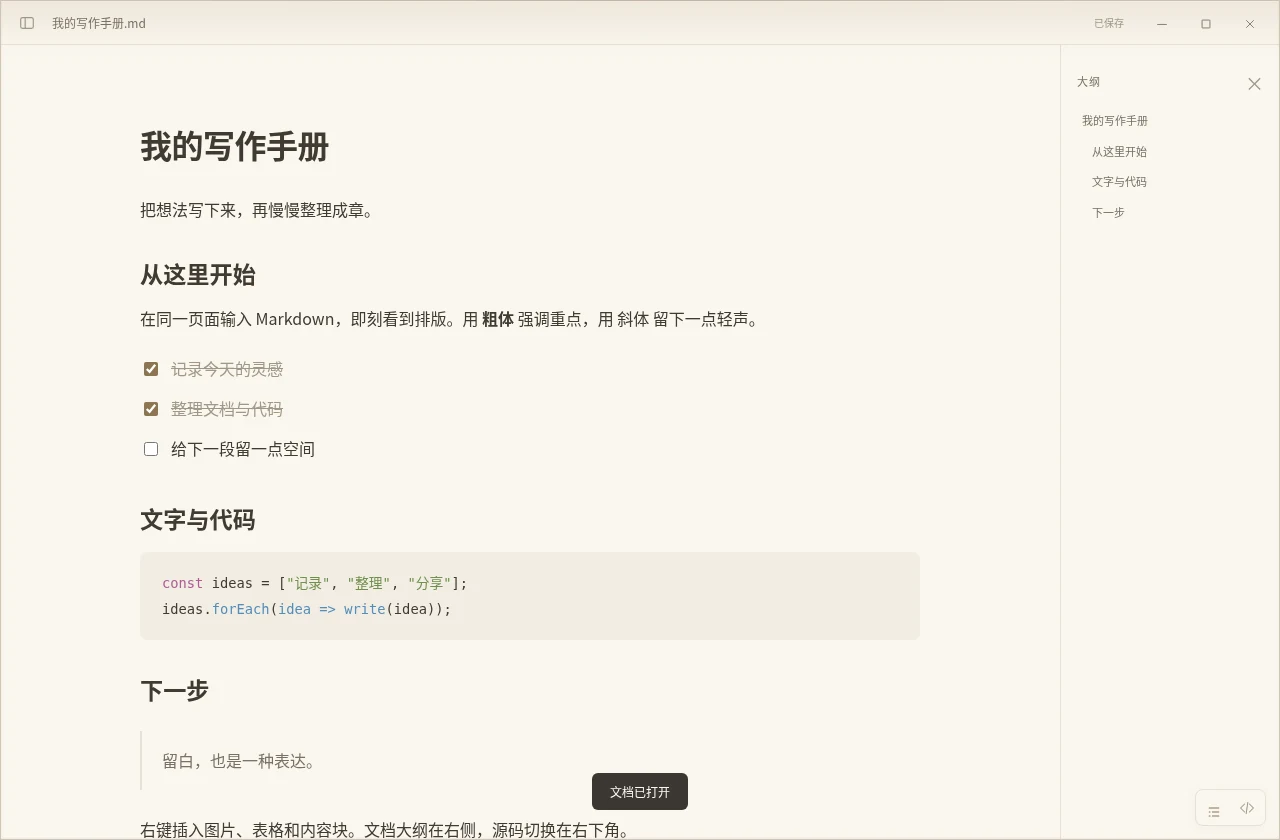
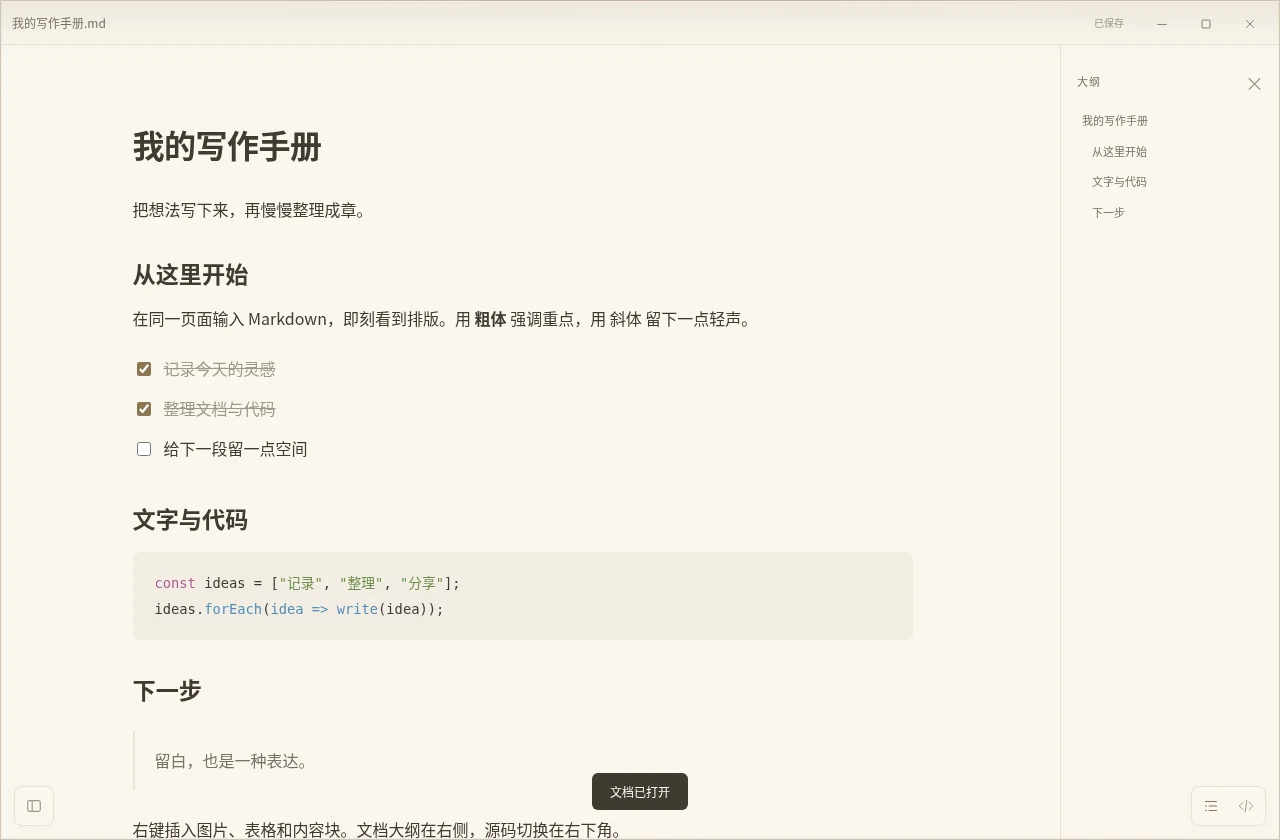
Update Windows 0.9.0 downloads and workspace previews

diff --git a/index.html b/index.html
@@ -54,11 +54,11 @@
 
   <main id="main">
     <section class="hero container" aria-labelledby="hero-title">
-      <a class="release-pill" href="#release"><span class="release-dot" aria-hidden="true"></span><span>0.8.0 已发布</span><span class="pill-divider"></span><span>右键插入，顺手编辑</span><span aria-hidden="true">↗</span></a>
+      <a class="release-pill" href="#release"><span class="release-dot" aria-hidden="true"></span><span>0.9.0 已发布</span><span class="pill-divider"></span><span>固定标题，顺畅切换</span><span aria-hidden="true">↗</span></a>
       <h1 id="hero-title">给想法，<span class="hero-accent">一张纸。<svg viewBox="0 0 360 17" aria-hidden="true"><path d="M4 11C88 2 206 1 354 8M82 15c97-7 176-9 250-4"/></svg></span></h1>
       <p class="hero-description">一个轻巧、安静的 Markdown 编辑器。<br>边写边呈现，让注意力回到文字本身。</p>
       <div class="hero-actions">
-        <a class="button button-dark" href="https://github.com/Linkyyy/tekaku/raw/refs/heads/downloads/windows-v0.8.0/Tekaku-0.8.0-windows-x64.zip" data-download><svg aria-hidden="true" class="icon"><use href="#i-windows"/></svg>免费下载 Windows 版<svg class="icon button-arrow"><use href="#i-down"/></svg></a>
+        <a class="button button-dark" href="https://github.com/Linkyyy/tekaku/raw/refs/heads/downloads/windows-v0.9.0/Tekaku-0.9.0-windows-x64.zip" data-download><svg aria-hidden="true" class="icon"><use href="#i-windows"/></svg>免费下载 Windows 版<svg class="icon button-arrow"><use href="#i-down"/></svg></a>
         <a class="button button-light" data-android-download href="https://github.com/Linkyyy/tekaku/raw/refs/heads/downloads/android-v0.1.0/Tekaku-0.1.0-android.apk">下载 Android APK <span aria-hidden="true">↓</span></a>
       </div>
       <p class="download-meta">Windows 10 / 11 x64 · Android 8.0+ · 文档留在本机</p>
@@ -152,19 +152,19 @@
         <details><summary>文件和图片保存在哪里？<svg aria-hidden="true" class="icon"><use href="#i-plus"/></svg></summary><div class="faq-answer"><p>Windows 的 Markdown 文件保存在你选择的位置，新插入图片在保存时写入同目录的「文档名.assets」文件夹。移动或分享文档时，请一起带上这个文件夹。Windows 草稿和设置保存在 %APPDATA%\Tekaku。Android 图片内嵌于 Markdown，草稿位于应用私有目录。草稿不能代替保存原文件。</p></div></details>
         <details><summary>可以完全离线使用吗？<svg aria-hidden="true" class="icon"><use href="#i-plus"/></svg></summary><div class="faq-answer"><p>安装好系统 WebView2 后，编辑、保存、本地图片和 HTML 导出均可离线使用，无需登录。手书不会上传文档。插入网络图片或主动打开网页链接时，会访问对应的网络地址。</p></div></details>
         <details><summary>支持所有 Markdown 扩展吗？<svg aria-hidden="true" class="icon"><use href="#i-plus"/></svg></summary><div class="faq-answer"><p>支持标题、列表、待办、引用、链接、图片、GFM 表格、文字高亮和代码块等常用内容。暂未提供公式排版、Mermaid 渲染、脚注及 YAML front matter 专用编辑。导入导出会规范化 Markdown，复杂文档建议先另存为。Windows 文档/图片上限分别为 8/5 MiB；Android 分别为 2/1 MiB。</p></div></details>
-        <details><summary>为什么提示「下载不常见」或「未知发布者」？<svg aria-hidden="true" class="icon"><use href="#i-plus"/></svg></summary><div class="faq-answer"><p>当前 EXE 未签名，下载信誉也需要积累，因此浏览器或 Windows 可能显示这类提示；它不等同于已检出病毒。0.8.0 已完成 ClamAV 扫描并未检出，但没有 Windows Defender 实机检测结论。可查看 <a href="https://github.com/Linkyyy/tekaku/blob/downloads/windows-v0.8.0/RELEASE-CHECK.md" target="_blank" rel="noopener noreferrer">安全检查记录</a>，并核对下载哈希。</p></div></details>
+        <details><summary>为什么提示「下载不常见」或「未知发布者」？<svg aria-hidden="true" class="icon"><use href="#i-plus"/></svg></summary><div class="faq-answer"><p>当前 EXE 未签名，下载信誉也需要积累，因此浏览器或 Windows 可能显示这类提示；它不等同于已检出病毒。0.9.0 已完成 ClamAV 扫描并未检出，但没有 Windows Defender 实机检测结论。可查看 <a href="https://github.com/Linkyyy/tekaku/blob/downloads/windows-v0.9.0/RELEASE-CHECK.md" target="_blank" rel="noopener noreferrer">安全检查记录</a>，并核对下载哈希。</p></div></details>
       </div>
     </section>
 
     <section class="download-section container" id="download" aria-labelledby="download-title">
       <div class="download-panel">
-        <div class="download-copy"><p class="eyebrow"><span></span> LESS FRICTION, MORE WORDS</p><h2 id="download-title">下一句话，<br>从这里开始。</h2><p>把好工具留在手边，把好想法留在纸上。</p><a class="button button-paper" href="https://github.com/Linkyyy/tekaku/raw/refs/heads/downloads/windows-v0.8.0/Tekaku-0.8.0-windows-x64.zip" data-download><svg aria-hidden="true" class="icon"><use href="#i-windows"/></svg>下载手书 Windows 版<svg class="icon button-arrow"><use href="#i-down"/></svg></a><span class="download-panel-meta">v0.8.0 · Windows 10 / 11 x64 · ZIP 约 1.9 MB</span></div>
+        <div class="download-copy"><p class="eyebrow"><span></span> LESS FRICTION, MORE WORDS</p><h2 id="download-title">下一句话，<br>从这里开始。</h2><p>把好工具留在手边，把好想法留在纸上。</p><a class="button button-paper" href="https://github.com/Linkyyy/tekaku/raw/refs/heads/downloads/windows-v0.9.0/Tekaku-0.9.0-windows-x64.zip" data-download><svg aria-hidden="true" class="icon"><use href="#i-windows"/></svg>下载手书 Windows 版<svg class="icon button-arrow"><use href="#i-down"/></svg></a><span class="download-panel-meta">v0.9.0 · Windows 10 / 11 x64 · ZIP 约 1.9 MB</span></div>
         <div class="download-art" aria-hidden="true"><div class="art-page page-back"></div><div class="art-page page-front"><span class="art-seal">手</span><span class="art-rule art-rule-title"></span><span class="art-rule"></span><span class="art-rule"></span><span class="art-rule art-rule-short"></span><span class="art-asterisk"><svg aria-hidden="true" class="icon"><use href="#i-asterisk"/></svg></span><span class="art-page-footer">TEKAKU<span>01</span></span></div><span class="art-caption">JUST YOU & YOUR WORDS.</span></div>
       </div>
-      <div class="download-details"><p>依赖系统 WebView2 Runtime · 解压后双击运行 · 无需账号</p><details class="checksum-details"><summary>查看下载包 SHA-256 <span aria-hidden="true">＋</span></summary><div class="checksum-content"><code id="checksum">d46f9148064e5a4d4318beeb3a99c22fbc3c428291775f0c4501a5221f623d18</code><button id="copy-checksum" type="button">复制</button><span id="copy-status" class="sr-only" role="status"></span></div></details></div>
+      <div class="download-details"><p>依赖系统 WebView2 Runtime · 解压后双击运行 · 无需账号</p><details class="checksum-details"><summary>查看下载包 SHA-256 <span aria-hidden="true">＋</span></summary><div class="checksum-content"><code id="checksum">d15f50d53cb18590767824ec01f5ab2d205d70e9b1ec60d52f298f64268ab7a8</code><button id="copy-checksum" type="button">复制</button><span id="copy-status" class="sr-only" role="status"></span></div></details></div>
     </section>
 
-    <section class="release-section container" id="release" aria-labelledby="release-title"><div><span class="release-dot" aria-hidden="true"></span><h2 id="release-title">最近更新</h2><span class="version-label">v0.8.0</span></div><p>PC 新增右侧大纲、右下角源码切换、右键编辑与插入；加入程序图标和 Markdown 打开方式，优化全屏边界与快捷键指南。</p><a href="https://github.com/Linkyyy/tekaku/tree/downloads/windows-v0.8.0" target="_blank" rel="noopener noreferrer">查看版本说明 <span aria-hidden="true">↗</span></a></section>
+    <section class="release-section container" id="release" aria-labelledby="release-title"><div><span class="release-dot" aria-hidden="true"></span><h2 id="release-title">最近更新</h2><span class="version-label">v0.9.0</span></div><p>优化 Markdown 输入指南；标题固定、内容独立滚动；左下角悬浮侧栏按钮与面板动画，源码预览切换保持同一编辑区域。</p><a href="https://github.com/Linkyyy/tekaku/tree/downloads/windows-v0.9.0" target="_blank" rel="noopener noreferrer">查看版本说明 <span aria-hidden="true">↗</span></a></section>
   </main>
 
   <footer class="site-footer container"><a class="brand" href="#" aria-label="返回手书首页"><span class="brand-seal" aria-hidden="true">手</span><span class="brand-name">手书<span class="brand-english">Tekaku</span></span></a><p>给文字一点空间。</p><div><a href="https://github.com/Linkyyy/tekaku/tree/gh-pages" target="_blank" rel="noopener noreferrer">官网源码 ↗</a><a href="https://github.com/Linkyyy/tekaku/issues" target="_blank" rel="noopener noreferrer">问题反馈 ↗</a><a href="#download">下载 ↓</a></div></footer>

diff --git a/README.md b/README.md
@@ -42,17 +42,17 @@ python3 -m http.server 8080
 
 ## 下载与维护
 
-- [Windows v0.8.0 便携包（约 1.9 MB）](https://github.com/Linkyyy/tekaku/raw/refs/heads/downloads/windows-v0.8.0/Tekaku-0.8.0-windows-x64.zip)
-- [版本说明](https://github.com/Linkyyy/tekaku/tree/downloads/windows-v0.8.0)
[1 lines of base64/hex data omitted]
+- [Windows v0.9.0 便携包（约 1.9 MB）](https://github.com/Linkyyy/tekaku/raw/refs/heads/downloads/windows-v0.9.0/Tekaku-0.9.0-windows-x64.zip)
+- [版本说明](https://github.com/Linkyyy/tekaku/tree/downloads/windows-v0.9.0)
[1 lines of base64/hex data omitted]
 
 新版本发布时，更新 `index.html` 中的版本号、下载链接、体积、最近更新内容和 SHA-256，以及本说明。替换皮肤截图时保留 `assets/editor-{white,paper,sage,night}.webp` 文件名。分享预览图使用 gh-pages 分支上的公开图片地址，不依赖 GitHub Pages 域名；确定正式域名后也可换成站点自身的绝对地址。
 
 桌面端使用系统 WebView2，支持 Windows 10 / 11 x64。1.9 MB 是 ZIP 体积，非内存占用；官网 FAQ 已注明依赖、图片附件移动方式、未签名和 Markdown 支持范围。
 
-## 0.8.0 安全检查
+## 0.9.0 安全检查
 
-用户反馈的“下载不常见”属于下载信誉提示。EXE 仍未签名，不能承诺提示消失。扫描和校验记录见 [安全检查说明](https://github.com/Linkyyy/tekaku/blob/downloads/windows-v0.8.0/SECURITY-CHECK.md)。[应用源码](https://github.com/Linkyyy/tekaku/tree/main)可复核。下载包应完整解压，保留 EXE 和 WebView2Loader.dll 在同一目录。
+用户反馈的“下载不常见”属于下载信誉提示。EXE 仍未签名，不能承诺提示消失。扫描和校验记录见 [安全检查说明](https://github.com/Linkyyy/tekaku/blob/downloads/windows-v0.9.0/SECURITY-CHECK.md)。[应用源码](https://github.com/Linkyyy/tekaku/tree/main)可复核。下载包应完整解压，保留 EXE 和 WebView2Loader.dll 在同一目录。
 
 ## Android 手机版
 
@@ -60,4 +60,4 @@ python3 -m http.server 8080
 
 Vercel 一键创建的独立仓库 `Linkyyy/tekaku-website` 以 main 为网站源；上游官网源为本仓库 gh-pages。发布时两者同步，网站无需 npm 构建。
 
-Windows 0.8.0：右侧独立大纲、右下角源码图标、分组右键菜单、多尺寸程序图标、当前用户 Markdown 打开方式、全屏边界修正及分组快捷键指南。Android APK 保持 0.1.0 不变。
+Windows 0.9.0：Markdown 输入指南分组对照、固定标题与内容独立滚动、左下角悬浮侧栏按钮、侧栏/大纲动画，以及保持同一编辑视口的源码/预览切换。Android APK 保持 0.1.0 不变。
